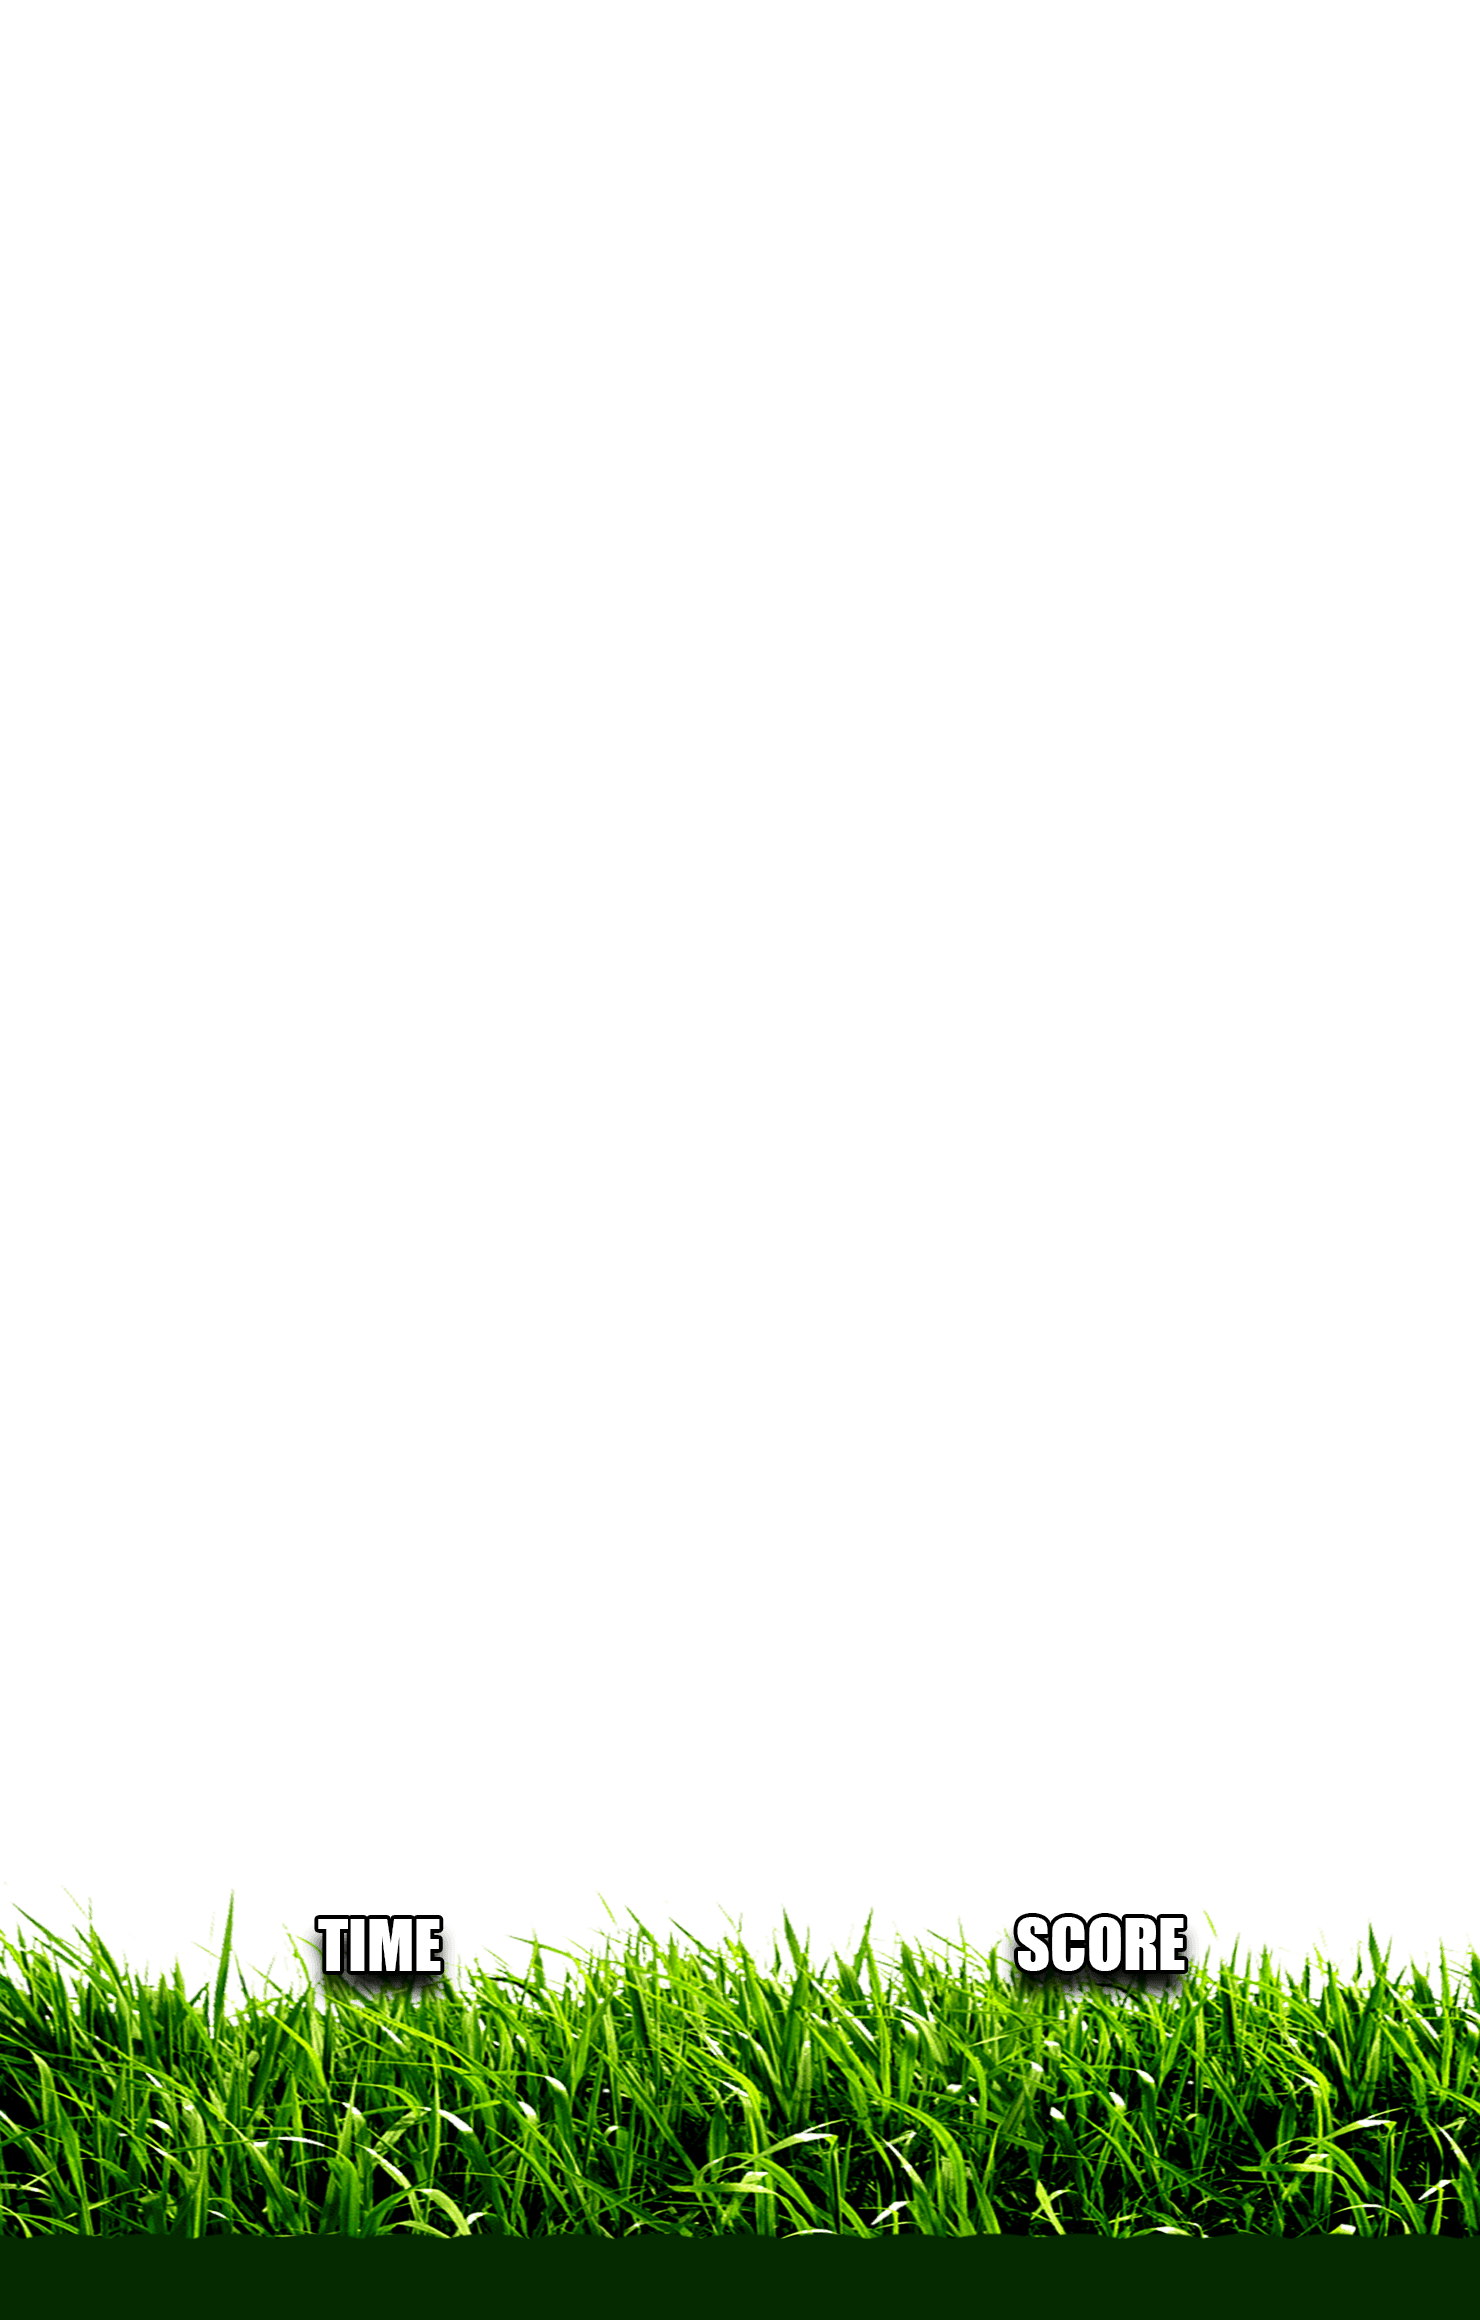
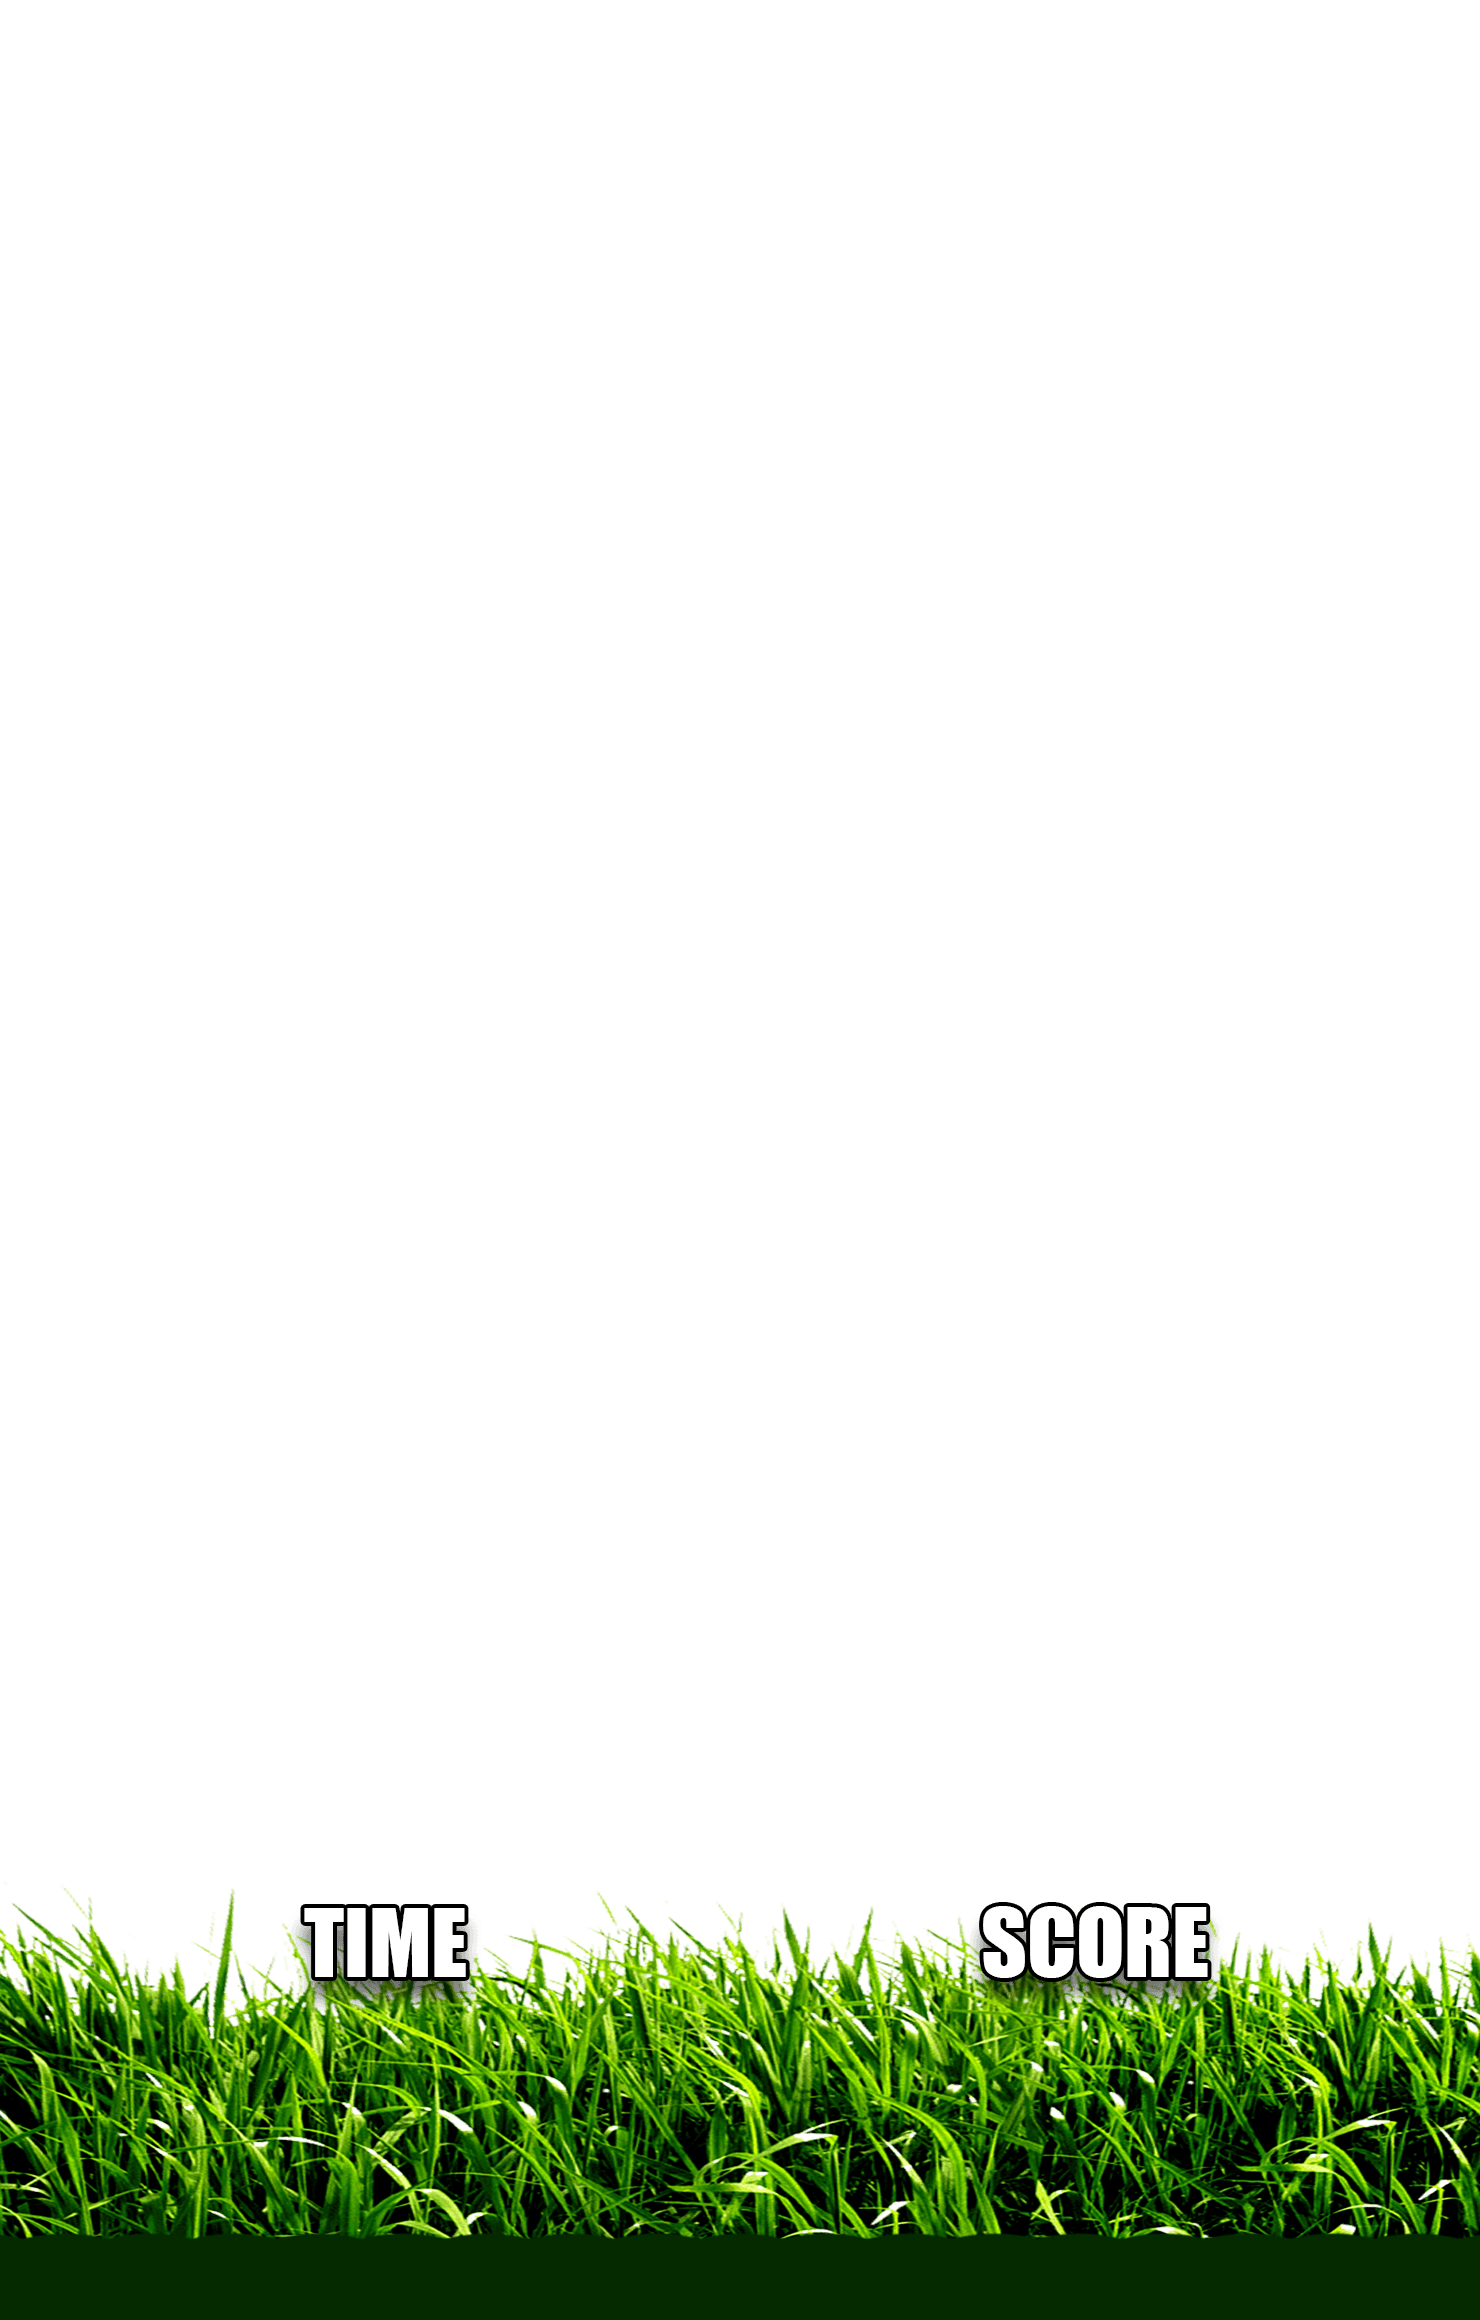
asdf

Changed region(s): [[0.6527, 0.8069, 0.8392, 0.869], [0.1865, 0.8069, 0.3419, 0.869]]

diff --git a/index.html b/index.html
@@ -501,7 +501,7 @@
       </div>
 
       <button class="start-btn" id="continueBtn">Continue</button>
-      <div style="margin-top: 0.8rem; font-size: 1.5rem; font-weight: 900; color: rgba(255,255,255,0.4); letter-spacing: 1px;">v12.1</div>
+      <div style="margin-top: 0.8rem; font-size: 1.5rem; font-weight: 900; color: rgba(255,255,255,0.4); letter-spacing: 1px;">v12.2</div>
     </div>
   </div>
 
@@ -1482,6 +1482,8 @@
     let showHUD = false;
     let showTargets = false;
     let showBall = false;
+    let hudSlideLeft = -200;  // timer circle X offset (slides in from left)
+    let hudSlideRight = 200;  // score circle X offset (slides in from right)
 
     // ── GOALIE SYSTEM ──
     let goalieActive = false;
@@ -1489,30 +1491,34 @@
     const GOALIE_DURATION = 600;  // 10 seconds at 60fps
     let goalieX = GW / 2;
     let goalieY = goal.y + goal.height * 0.5;
-    let goalieState = 'ready';    // 'ready' | 'jumping' | 'blocked' | 'scored'
-    let goalieJumpDir = 0;        // 0=center, 1=left, 2=right, 3=up-left, 4=up-right
+    let goalieState = 'ready';    // 'ready' | 'jumping'
+    let goalieJumpDir = 0;        // 0=idle, 1=left1, 2=left2, 3=right1, 4=right2
     let goalieJumpT = 0;
     let goalieStartX = 0;
     let goalieStartY = 0;
     let goalieTargetX = 0;
     let goalieTargetY = 0;
     let goalieShotsLeft = 3;
+    let goalieFrame = 0;          // sprite frame index (0-4)
 
-    // Goalie sprite (placeholder — will be replaced with sprite sheet)
-    const goalieImg = new Image();
-    goalieImg.src = 'goalie.png';
-    let goalieImgLoaded = false;
-    goalieImg.onload = () => { goalieImgLoaded = true; };
+    // Goalie sprite sheet: 5 frames in a row, 329x256 each
+    const goalieSheet = new Image();
+    goalieSheet.src = 'goalie_sheet.png';
+    let goalieSheetLoaded = false;
+    goalieSheet.onload = () => { goalieSheetLoaded = true; };
+    const GOALIE_CELL_W = 329;
+    const GOALIE_CELL_H = 256;
 
     function activateGoalie() {
       goalieActive = true;
       goalieTimer = GOALIE_DURATION;
       goalieState = 'ready';
+      goalieFrame = 0; // idle
       goalieX = GW / 2;
       goalieY = goal.y + goal.height * 0.5;
       goalieJumpT = 0;
       goalieShotsLeft = 3;
-      // Hide targets during goalie phase
+      targetRespawnTimer = 0;
       for (const t of targets) {
         t.alive = false;
         t.hitAnim = 0;
@@ -1522,39 +1528,36 @@
     function deactivateGoalie() {
       goalieActive = false;
       goalieTimer = 0;
-      // Respawn all targets
       spawnTargets();
     }
 
     function goalieChooseJump() {
-      // Random direction: 0=center, 1=left, 2=right, 3=up-left, 4=up-right
-      goalieJumpDir = Math.floor(Math.random() * 5);
+      // Pick random direction: 1=left1, 2=left2, 3=right1, 4=right2
+      // (no center/idle — goalie always dives)
+      goalieJumpDir = 1 + Math.floor(Math.random() * 4);
+      goalieFrame = goalieJumpDir; // sprite frame matches direction
       goalieState = 'jumping';
       goalieJumpT = 0;
       goalieStartX = GW / 2;
       goalieStartY = goal.y + goal.height * 0.5;
 
-      const jumpDist = 100;
+      const jumpDist = 110;
       switch(goalieJumpDir) {
-        case 0: // center — stays put
-          goalieTargetX = goalieStartX;
+        case 1: // left1
+          goalieTargetX = goalieStartX - jumpDist * 0.7;
+          goalieTargetY = goalieStartY - 20;
+          break;
+        case 2: // left2 (further)
+          goalieTargetX = goalieStartX - jumpDist * 1.2;
           goalieTargetY = goalieStartY - 30;
           break;
-        case 1: // left
-          goalieTargetX = goalieStartX - jumpDist;
-          goalieTargetY = goalieStartY;
-          break;
-        case 2: // right
-          goalieTargetX = goalieStartX + jumpDist;
-          goalieTargetY = goalieStartY;
-          break;
-        case 3: // up-left
-          goalieTargetX = goalieStartX - jumpDist * 0.7;
-          goalieTargetY = goalieStartY - jumpDist * 0.5;
-          break;
-        case 4: // up-right
+        case 3: // right1
           goalieTargetX = goalieStartX + jumpDist * 0.7;
-          goalieTargetY = goalieStartY - jumpDist * 0.5;
+          goalieTargetY = goalieStartY - 20;
+          break;
+        case 4: // right2 (further)
+          goalieTargetX = goalieStartX + jumpDist * 1.2;
+          goalieTargetY = goalieStartY - 30;
           break;
       }
     }
@@ -1569,13 +1572,18 @@
       }
 
       if (goalieState === 'jumping') {
-        goalieJumpT += 0.08;
+        goalieJumpT += 0.06;
         if (goalieJumpT >= 1) {
           goalieJumpT = 1;
-          // Check if goalie blocked the ball
-          goalieState = 'ready';
-          goalieX = GW / 2;
-          goalieY = goal.y + goal.height * 0.5;
+          // Reset to ready after a pause
+          setTimeout(() => {
+            if (goalieActive) {
+              goalieState = 'ready';
+              goalieFrame = 0;
+              goalieX = GW / 2;
+              goalieY = goal.y + goal.height * 0.5;
+            }
+          }, 400);
         } else {
           const eased = 1 - Math.pow(1 - goalieJumpT, 3);
           goalieX = goalieStartX + (goalieTargetX - goalieStartX) * eased;
@@ -1585,42 +1593,27 @@
     }
 
     function drawGoalie() {
-      if (!goalieActive) return;
+      if (!goalieActive || !goalieSheetLoaded) return;
 
-      // Draw goalie as a colored rectangle placeholder until sprite is ready
-      const gw = 60;
-      const gh = 80;
+      const sx = goalieFrame * GOALIE_CELL_W;
+      const drawScale = 0.55; // adjust to fit in goal
+      const drawW = GOALIE_CELL_W * drawScale;
+      const drawH = GOALIE_CELL_H * drawScale;
 
       ctx.save();
-      ctx.fillStyle = '#FF6600';
-      ctx.globalAlpha = 0.8;
-      ctx.fillRect(goalieX - gw/2, goalieY - gh/2, gw, gh);
+      ctx.drawImage(
+        goalieSheet,
+        sx, 0, GOALIE_CELL_W, GOALIE_CELL_H,
+        goalieX - drawW / 2, goalieY - drawH / 2, drawW, drawH
+      );
 
-      // Jersey number
-      ctx.fillStyle = '#fff';
-      ctx.font = 'bold 24px Impact';
-      ctx.textAlign = 'center';
-      ctx.textBaseline = 'middle';
-      ctx.fillText('GK', goalieX, goalieY);
-      ctx.globalAlpha = 1;
-
-      // Timer bar above goal
-      const timerPct = goalieTimer / GOALIE_DURATION;
-      const barW = goal.width * 0.8;
-      const barX = goal.x + (goal.width - barW) / 2;
-      const barY = goal.y - 20;
-      ctx.fillStyle = 'rgba(0,0,0,0.5)';
-      ctx.fillRect(barX, barY, barW, 8);
-      ctx.fillStyle = '#FFD700';
-      ctx.fillRect(barX, barY, barW * timerPct, 8);
-
-      // "5X BONUS" text
+      // "5X" text above goalie
       ctx.shadowColor = 'rgba(0,0,0,0.8)';
       ctx.shadowBlur = 6;
       ctx.fillStyle = '#FFD700';
-      ctx.font = 'bold 28px Impact';
+      ctx.font = 'bold 24px Impact';
       ctx.textAlign = 'center';
-      ctx.fillText('5X GOALIE', GW / 2, goal.y - 35);
+      ctx.fillText('5X GOALIE', GW / 2, goal.y - 25);
       ctx.shadowBlur = 0;
 
       ctx.restore();
@@ -1628,8 +1621,11 @@
 
     function checkGoalieBlock(ballX, ballY) {
       if (!goalieActive || goalieState !== 'jumping') return false;
-      const dist = distTo(ballX, ballY, goalieX, goalieY);
-      return dist < 60; // goalie block radius
+      // Block if ball overlaps the goalie sprite area
+      const drawScale = 0.55;
+      const gw = GOALIE_CELL_W * drawScale * 0.7;
+      const gh = GOALIE_CELL_H * drawScale * 0.7;
+      return Math.abs(ballX - goalieX) < gw / 2 && Math.abs(ballY - goalieY) < gh / 2;
     }
 
     function startGame() {
@@ -2756,7 +2752,7 @@
 
       // ── TIMER (bottom-left) — no background, just the ring ──
       const ringR = 63;
-      const ringX = 95;
+      const ringX = 95 + hudSlideLeft;
       const ringCY = GH - 180;
       const progress = timeLeft / 60;
 
@@ -2809,14 +2805,14 @@
       }
 
       // ── SCORE (bottom-right) in circle with respawn timer drain ──
-      const scoreX = GW - 95;
+      const scoreX = GW - 95 + hudSlideRight;
       const scoreCY = GH - 180;
       const scoreR = 63;
 
       // Circle color based on multiplier state
       const alive = getAliveCount();
-      const circleColor = alive === 1 ? '#B8860B' : alive === 2 ? '#CC3333' : '#48A943';
-      const circleColorFaded = alive === 1 ? 'rgba(184, 134, 11, 0.2)' : alive === 2 ? 'rgba(204, 51, 51, 0.2)' : 'rgba(72, 169, 67, 0.15)';
+      const circleColor = goalieActive ? '#FFD700' : alive === 1 ? '#B8860B' : alive === 2 ? '#CC3333' : '#48A943';
+      const circleColorFaded = goalieActive ? 'rgba(255, 215, 0, 0.2)' : alive === 1 ? 'rgba(184, 134, 11, 0.2)' : alive === 2 ? 'rgba(204, 51, 51, 0.2)' : 'rgba(72, 169, 67, 0.15)';
 
       // Dark backing circle
       ctx.fillStyle = 'rgba(0, 0, 0, 0.35)';
@@ -2839,12 +2835,20 @@
 
       // Draining ring — based on respawn timer progress
       // Full when you just hit a target, drains as timer counts toward respawn
-      const respawnProgress = (alive > 0 && alive < 3) ? 1 - (targetRespawnTimer / TARGET_RESPAWN_DELAY) : 1;
+      // Draining ring — respawn timer or goalie timer
+      let ringProgress;
+      if (goalieActive) {
+        ringProgress = goalieTimer / GOALIE_DURATION;
+      } else if (alive > 0 && alive < 3) {
+        ringProgress = 1 - (targetRespawnTimer / TARGET_RESPAWN_DELAY);
+      } else {
+        ringProgress = 1;
+      }
       ctx.strokeStyle = circleColor;
       ctx.lineWidth = 8;
       ctx.lineCap = 'round';
       ctx.beginPath();
-      ctx.arc(scoreX, scoreCY, scoreR, -Math.PI / 2, -Math.PI / 2 + Math.PI * 2 * Math.max(0, respawnProgress));
+      ctx.arc(scoreX, scoreCY, scoreR, -Math.PI / 2, -Math.PI / 2 + Math.PI * 2 * Math.max(0, ringProgress));
       ctx.stroke();
       ctx.lineCap = 'butt';
 
@@ -2860,8 +2864,8 @@
       ctx.restore();
 
       // ── Multiplier text at top of score circle ──
-      if (alive < 3) {
-        const mult = alive === 1 ? '3X' : '2X';
+      if (goalieActive || alive < 3) {
+        const mult = goalieActive ? '5X' : alive === 1 ? '3X' : '2X';
 
         ctx.save();
         ctx.shadowColor = 'rgba(0,0,0,0.8)';
@@ -2898,21 +2902,21 @@
         introTimer++;
 
         if (introPhase === 'ui') {
-          // Fade in HUD over 30 frames
           introUIAlpha = Math.min(1, introTimer / 30);
           showHUD = true;
-          if (introTimer >= 40) {
-            introPhase = 'targets';
-            introTimer = 0;
+          // Slide HUD circles in from edges
+          hudSlideLeft = -200 * Math.max(0, 1 - introTimer / 25);
+          hudSlideRight = 200 * Math.max(0, 1 - introTimer / 25);
+          // Drop in targets at the same time
+          if (introTimer === 10) {
             showTargets = true;
             spawnTargets();
           }
-        } else if (introPhase === 'targets') {
-          // Targets animate in via their entrance animation
           if (introTimer >= 50) {
             introPhase = 'done';
+            hudSlideLeft = 0;
+            hudSlideRight = 0;
             gameState = 'playing';
-            // Start the game timer
             timerInterval = setInterval(() => {
               timeLeft--;
               if (timeLeft <= 0) {
@@ -3080,6 +3084,27 @@
 
       // Pre-init crowd audio so it's ready to start instantly
       crowdAudio.load();
+      crowdAudio.volume = 0;
+
+      // Start crowd audio near the end of the video for seamless crossfade
+      let crowdStarted = false;
+      introVideo.ontimeupdate = () => {
+        if (!crowdStarted && introVideo.duration && introVideo.currentTime >= introVideo.duration - 0.3) {
+          crowdStarted = true;
+          crowdAudio.currentTime = 0;
+          crowdAudio.volume = 0;
+          crowdAudio.play().catch(() => {});
+          // Quick fade in
+          const fadeIn = setInterval(() => {
+            if (crowdAudio.volume < 0.28) {
+              crowdAudio.volume = Math.min(0.3, crowdAudio.volume + 0.05);
+            } else {
+              crowdAudio.volume = 0.3;
+              clearInterval(fadeIn);
+            }
+          }, 50);
+        }
+      };
 
       introVideo.play().then(() => {
         // Video is playing — NOW hide registration (no black frame)
